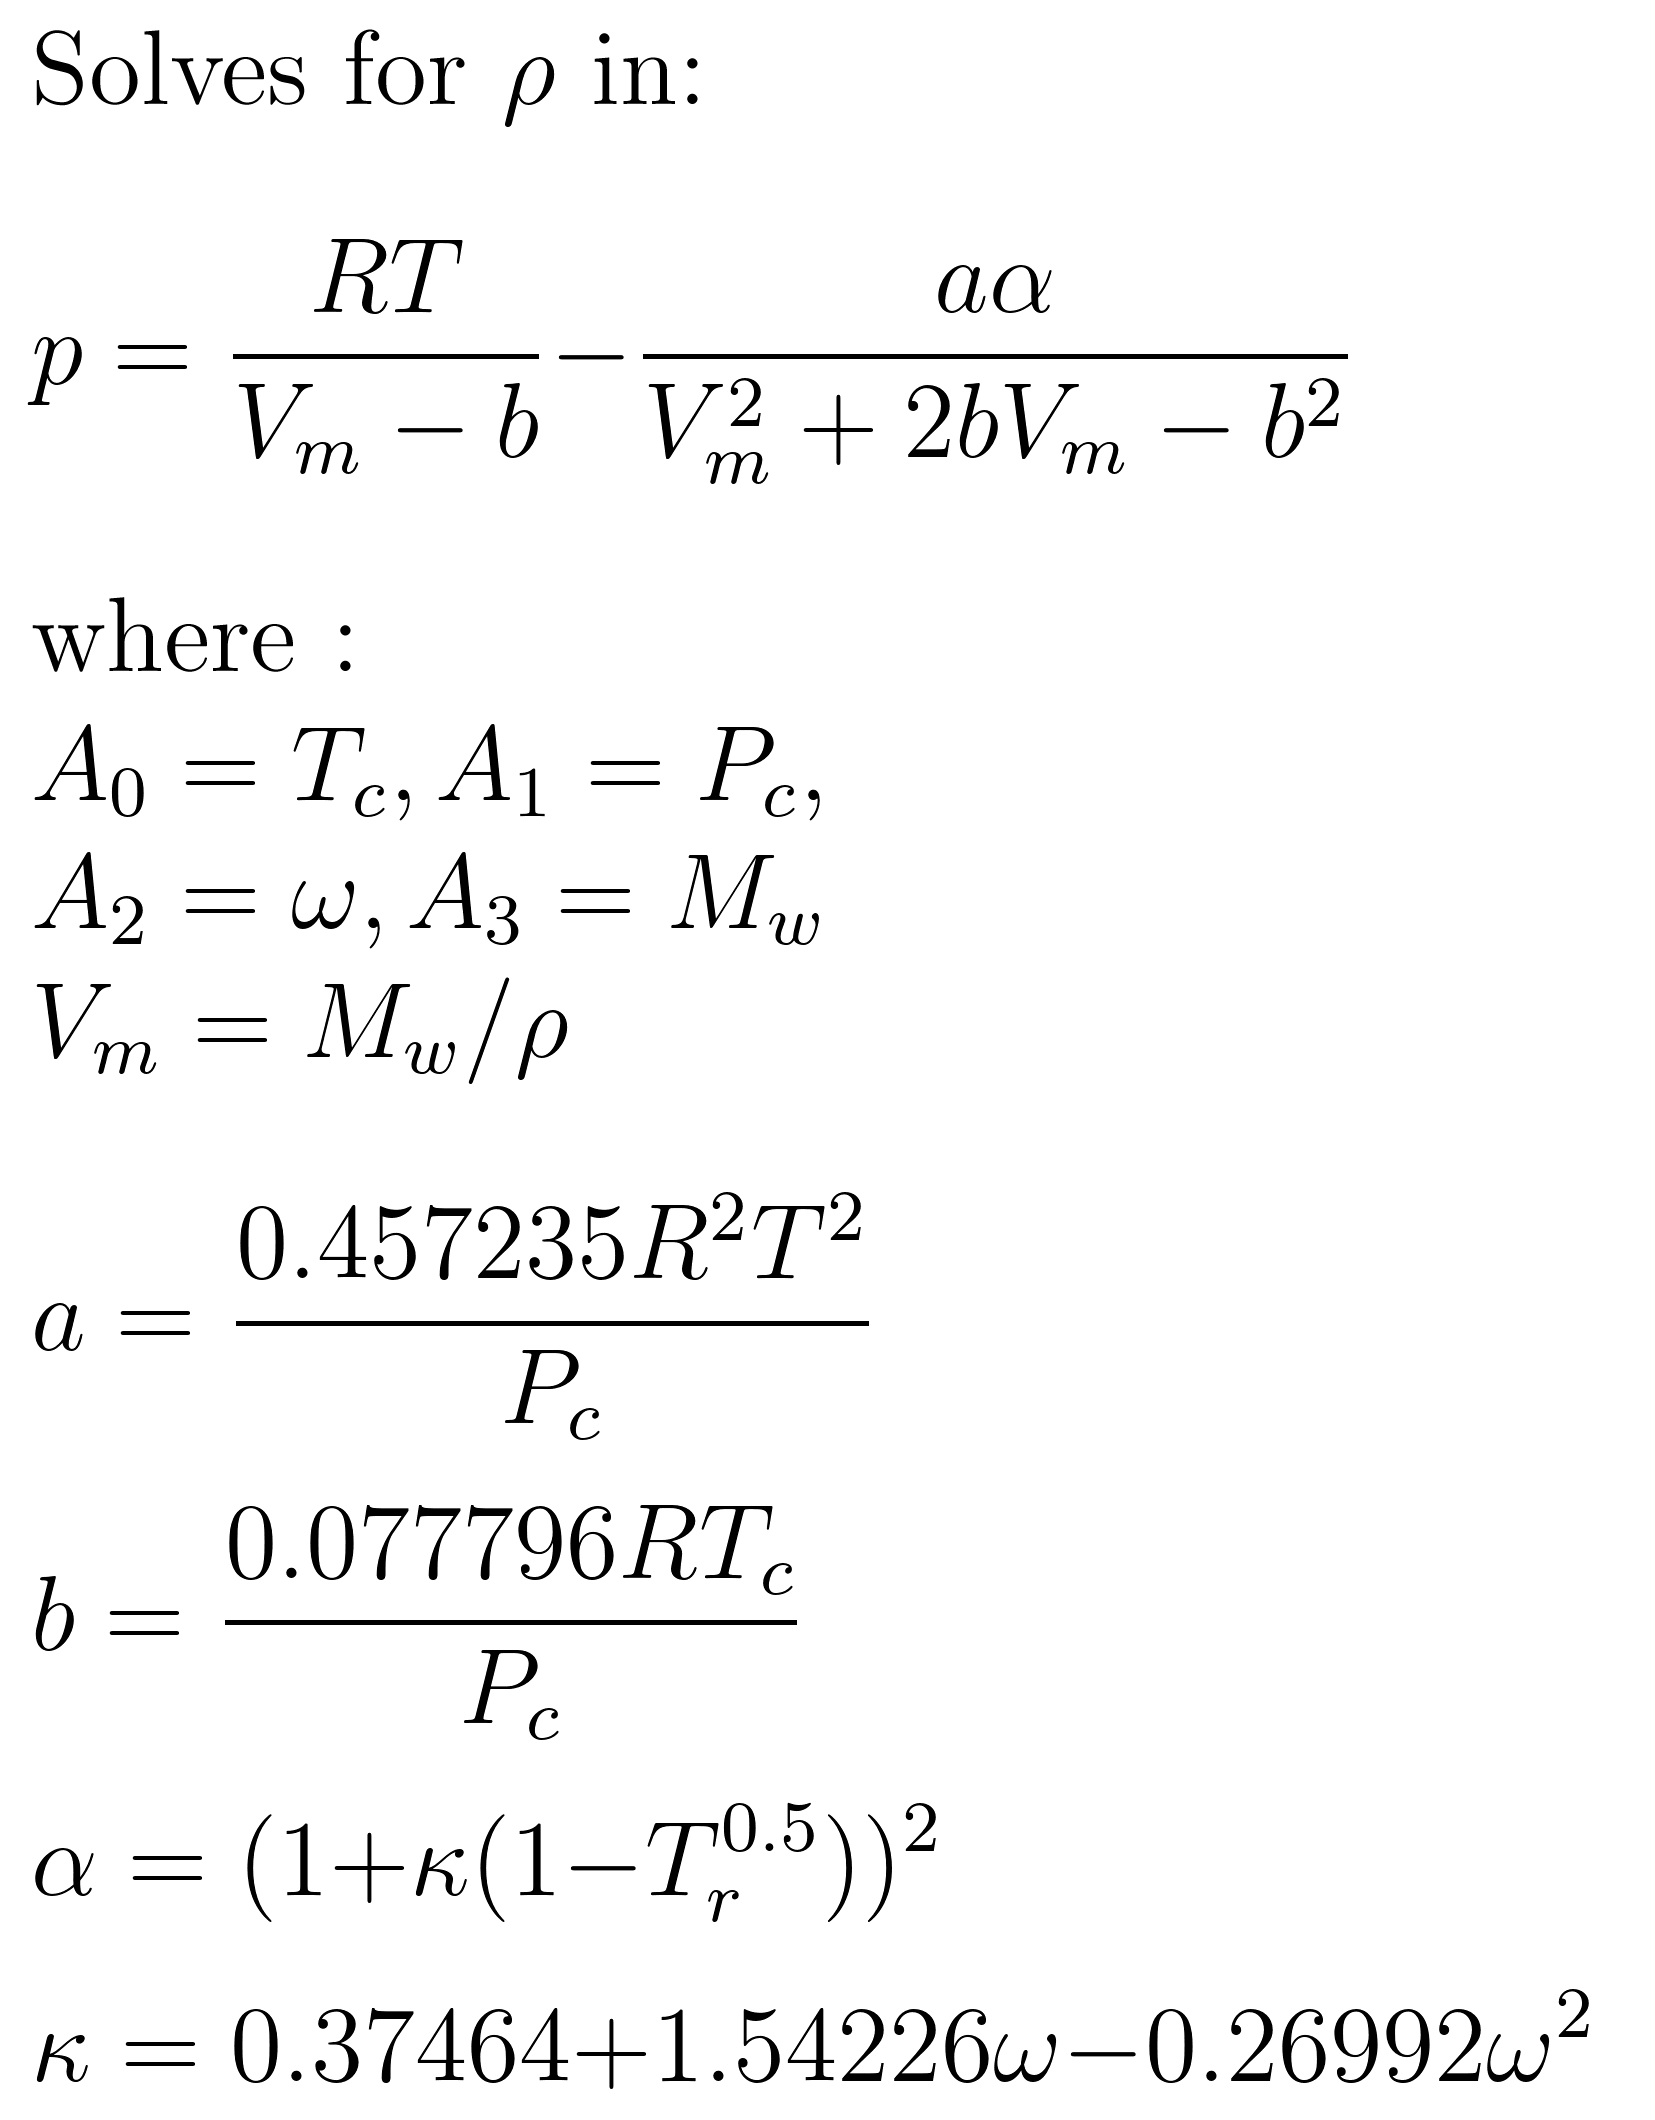
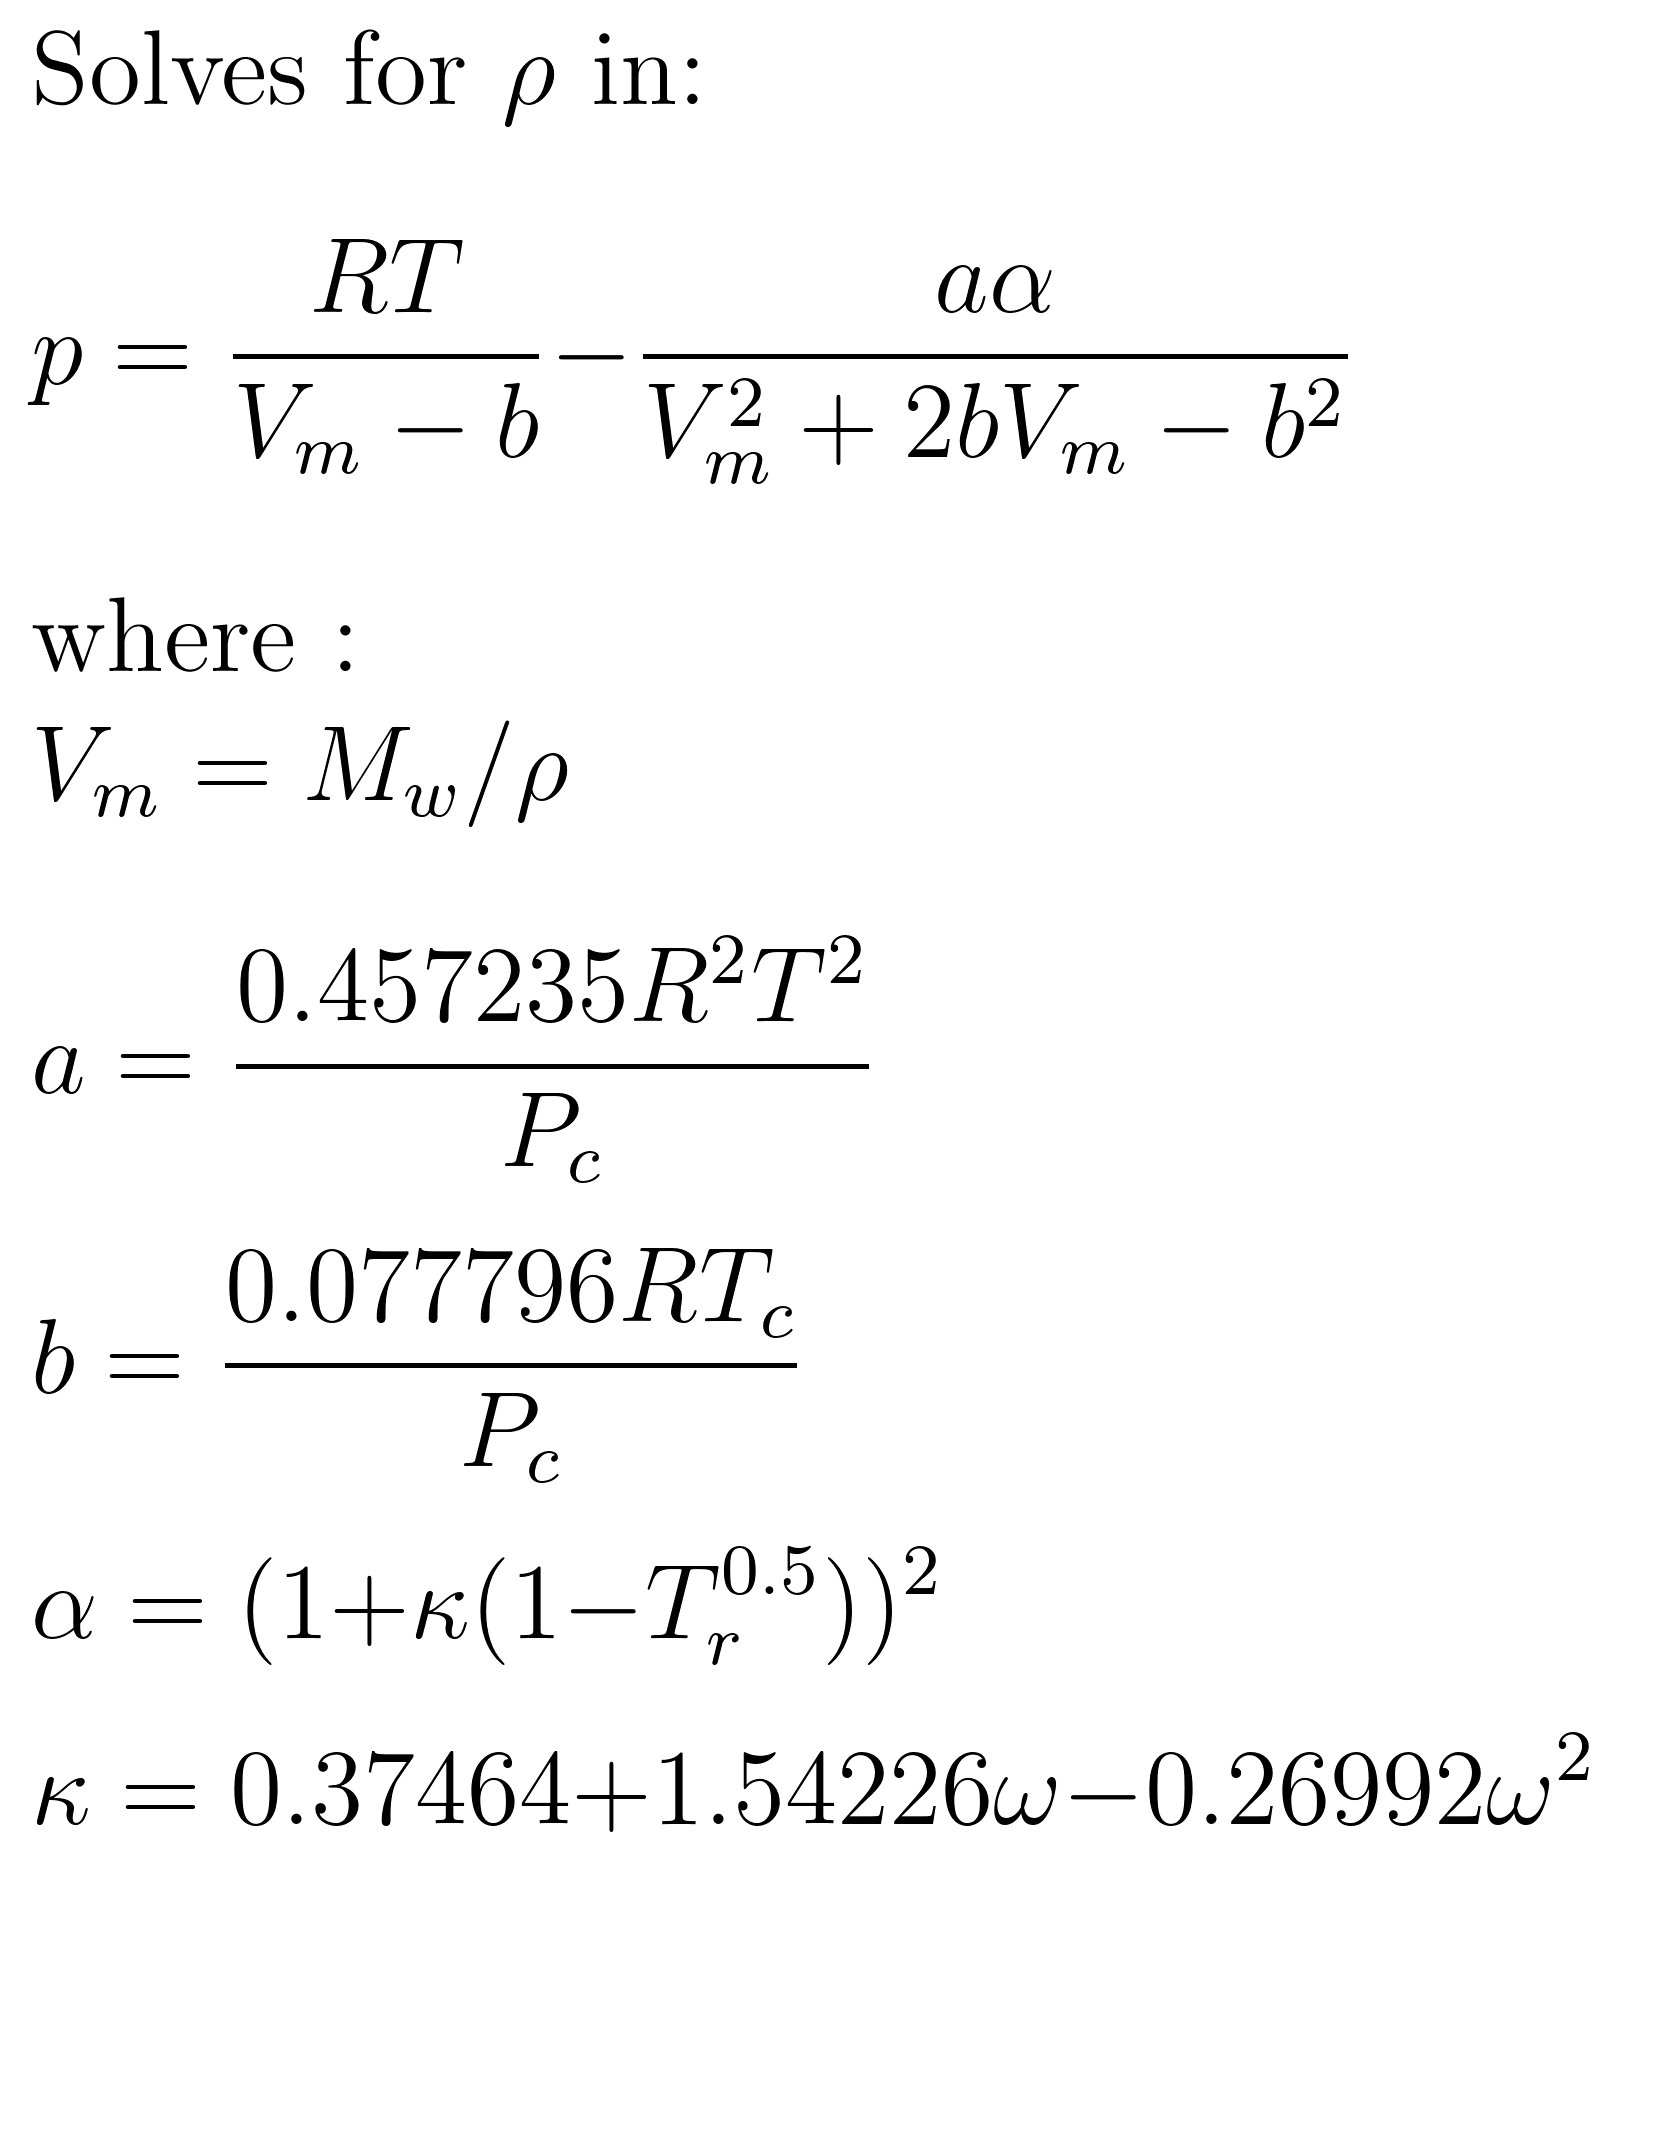
corrected info for ideaGas, Peng Robinson, janaf cp

diff --git a/polymorph/polymorph/pengRobinson.tex b/polymorph/polymorph/pengRobinson.tex
@@ -23,8 +23,6 @@ Solves for $\rho$ in:
 p = \frac{RT}{V_m-b} - \frac{a\alpha}{V_m^2 + 2bV_m - b^2} \hspace{2cm}
 \end{equation*}
 where :\\
-$A_0 = T_c, A_1 = P_c,$\\
-$ A_2 = \omega, A_3 = M_w$\\
 $V_m = M_w/\rho$\\
 \[
 a = \frac{0.457235 R^2 T^2}{P_c} \hspace{5cm} 
@@ -37,7 +35,6 @@ b = \frac{0.077796 R T_c}{P_c}\hspace{5cm}
 \]
 \[
 \kappa = 0.37464 + 1.54226 \omega - 0.26992 \omega^2 \hspace{5cm}  
-\]
-
+\]\vspace{-2pt}\\
 }
 \end{document}

diff --git a/polymorph/polymorph/janaf_cp.tex b/polymorph/polymorph/janaf_cp.tex
@@ -21,7 +21,6 @@
 \begin{equation*}
 \frac{c_p}{R} = A_0 + A_1 T + A_2 T^2 + A_3 T^3 + A_4 T^4
 \end{equation*}
-where :\\
-$R = A_7$\vspace{151pt}\\
+\vspace{168pt}\\
 }
 \end{document}

diff --git a/polymorph/polymorph/idealGasLaw.tex b/polymorph/polymorph/idealGasLaw.tex
@@ -22,7 +22,6 @@ Solves for $\rho$
 \begin{eqnarray*}
 p = \rho R T \hspace{5cm}
 \end{eqnarray*}
-where:\\
-$R = A_0$\vspace{145pt}\\
+\vspace{160pt}\\
 }
 \end{document}
